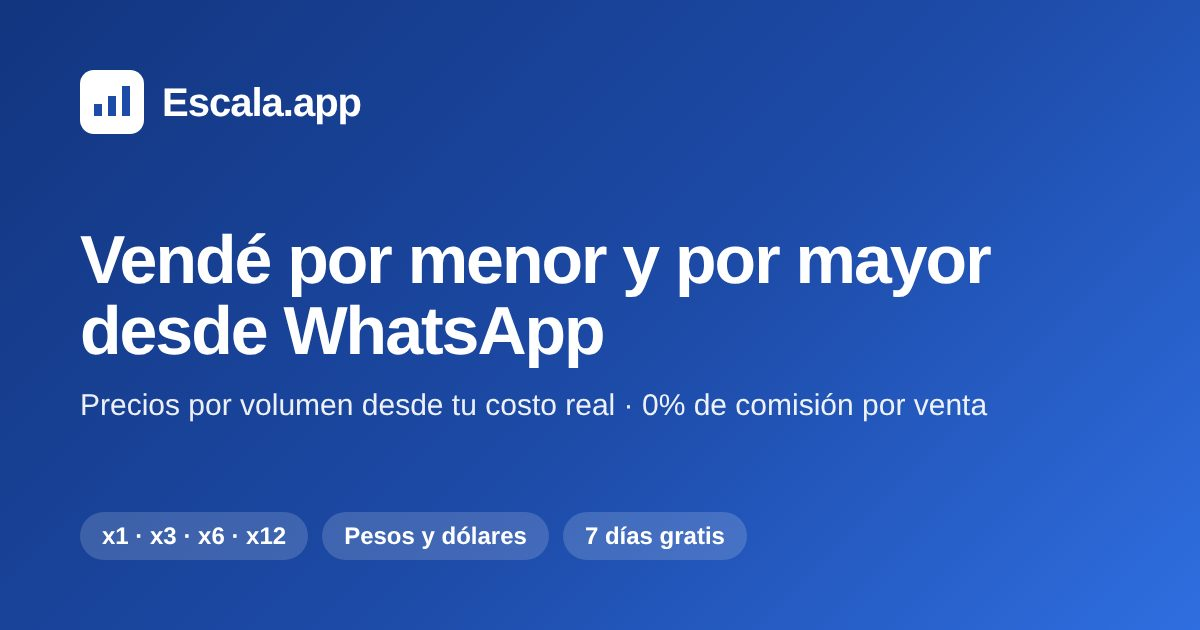
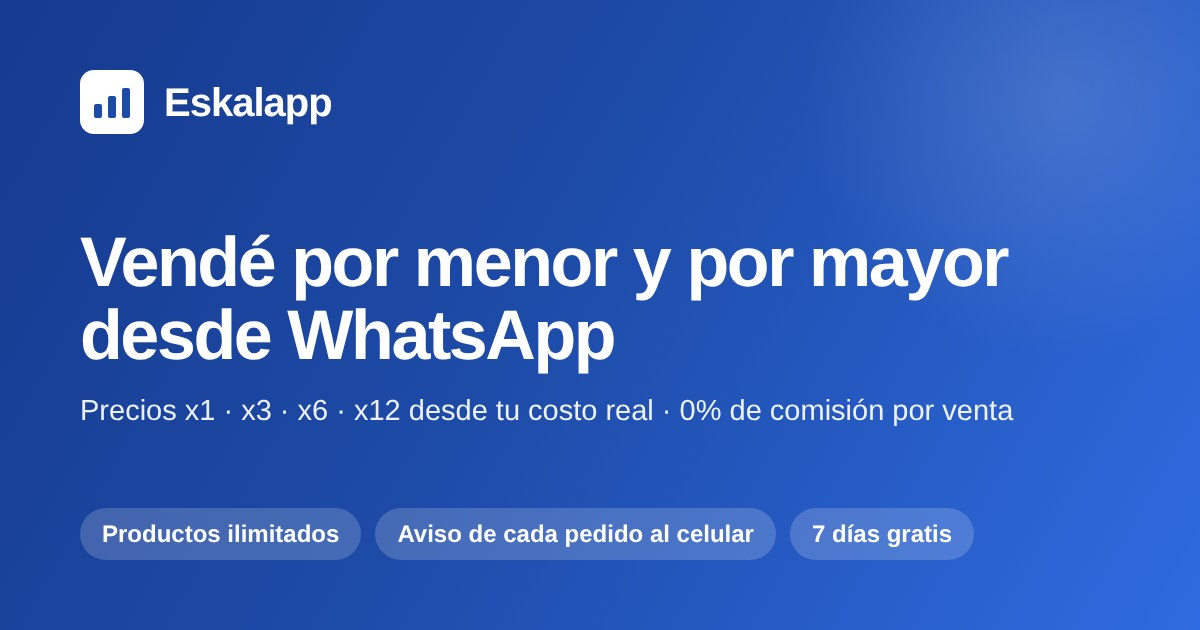
Add files via upload

diff --git a/sw.js b/sw.js
@@ -1,0 +1,32 @@
+// Service worker de la plataforma: solo muestra los avisos de pedidos nuevos en el celular o la compu del comercio.
+// No guarda nada en caché ni intercepta páginas (la tienda y el panel cargan siempre como siempre).
+self.addEventListener('install', () => self.skipWaiting());
+self.addEventListener('activate', e => e.waitUntil(self.clients.claim()));
+
+// Solo se abren direcciones del panel (nunca otro sitio).
+const delPanel = u => typeof u === 'string' && /^\/app(#\/[\w/?=&-]*)?$/.test(u);
+
+self.addEventListener('push', e => {
+  let d = {};
+  try { d = e.data ? e.data.json() : {}; } catch (x) { d = { title: 'Aviso', body: e.data ? e.data.text() : '' }; }
+  const titulo = String(d.title || '🛒 Pedido nuevo').slice(0, 120);
+  e.waitUntil(self.registration.showNotification(titulo, {
+    body: String(d.body || 'Entrá a tu panel para verlo.').slice(0, 240),
+    icon: '/icon-192.png', badge: '/icon-192.png',
+    tag: String(d.tag || 'pedido'), renotify: true,
+    data: { url: delPanel(d.url) ? d.url : '/app#/panel?tab=pedidos' },
+  }));
+});
+
+self.addEventListener('notificationclick', e => {
+  e.notification.close();
+  const d = (e.notification.data && e.notification.data.url) || '/app#/panel';
+  const url = new URL(delPanel(d) ? d : '/app#/panel', self.location.origin);
+  e.waitUntil((async () => {
+    const ws = await self.clients.matchAll({ type: 'window', includeUncontrolled: true });
+    const panel = ws.find(w => new URL(w.url).pathname.startsWith('/app'));
+    // si el panel ya está abierto: se trae al frente y se le pide que abra el pedido (sin recargar la página)
+    if (panel) { try { await panel.focus(); } catch (x) { } panel.postMessage({ irA: url.pathname + url.hash }); return; }
+    await self.clients.openWindow(url.href);
+  })());
+});

diff --git a/app.html b/app.html
@@ -3,12 +3,12 @@
 <head>
 <meta charset="utf-8">
 <meta name="viewport" content="width=device-width,initial-scale=1,viewport-fit=cover">
-<title>Escala.app · Tu tienda online mayorista y minorista con pedidos por WhatsApp</title>
+<title>Eskalapp · Tu tienda online mayorista y minorista con pedidos por WhatsApp</title>
 <meta name="description" content="Subí la foto de la lista de tu proveedor y en un minuto tenés tu tienda con precios por cantidad y pedidos por WhatsApp. 0% de comisión por venta. 7 días gratis.">
 <meta property="og:type" content="website">
-<meta property="og:site_name" content="Escala.app">
-<meta property="og:title" content="Subí la lista de tu proveedor y tené tu tienda con tus precios en un minuto">
-<meta property="og:description" content="Para revendedores y mayoristas: precios por cantidad con tu ganancia, pedidos por WhatsApp y 0% de comisión por venta. Probalo sin registrarte.">
+<meta property="og:site_name" content="Eskalapp">
+<meta property="og:title" content="Eskalapp: tu tienda mayorista y minorista con precios x1 · x3 · x6 · x12">
+<meta property="og:description" content="Para revendedores y mayoristas: subí la lista de tu proveedor, poné tu ganancia y recibí pedidos por WhatsApp. Productos ilimitados y 0% de comisión por venta.">
 <meta property="og:image" content="/og.jpg">
 <meta name="twitter:card" content="summary_large_image">
 <link rel="icon" href="/favicon.svg" type="image/svg+xml">

diff --git a/index.html b/index.html
@@ -3,12 +3,12 @@
 <head>
 <meta charset="utf-8">
 <meta name="viewport" content="width=device-width,initial-scale=1,viewport-fit=cover">
-<title>Escala.app · Tu tienda online mayorista y minorista con pedidos por WhatsApp</title>
+<title>Eskalapp · Tu tienda online mayorista y minorista con pedidos por WhatsApp</title>
 <meta name="description" content="Subí la foto de la lista de tu proveedor y en un minuto tenés tu tienda con precios por cantidad y pedidos por WhatsApp. 0% de comisión por venta. 7 días gratis.">
 <meta property="og:type" content="website">
-<meta property="og:site_name" content="Escala.app">
-<meta property="og:title" content="Subí la lista de tu proveedor y tené tu tienda con tus precios en un minuto">
-<meta property="og:description" content="Para revendedores y mayoristas: precios por cantidad con tu ganancia, pedidos por WhatsApp y 0% de comisión por venta. Probalo sin registrarte.">
+<meta property="og:site_name" content="Eskalapp">
+<meta property="og:title" content="Eskalapp: tu tienda mayorista y minorista con precios x1 · x3 · x6 · x12">
+<meta property="og:description" content="Para revendedores y mayoristas: subí la lista de tu proveedor, poné tu ganancia y recibí pedidos por WhatsApp. Productos ilimitados y 0% de comisión por venta.">
 <meta property="og:image" content="/og.jpg">
 <meta name="twitter:card" content="summary_large_image">
 <link rel="icon" href="/favicon.svg" type="image/svg+xml">

diff --git a/bot.html b/bot.html
@@ -3,7 +3,7 @@
 <head>
 <meta charset="utf-8">
 <meta name="viewport" content="width=device-width, initial-scale=1">
-<title>EscalaBot · lector de catálogos</title>
+<title>EscalaBot · lector de catálogos de Eskalapp</title>
 <meta name="robots" content="noindex">
 <style>
   :root { --bg: #f7f8fb; --fg: #1b2333; --t2: #4a5568; --ac: #1d4ba8; --bd: #dde2ec; color-scheme: light; }
@@ -20,7 +20,7 @@
 </head>
 <body>
 <main>
-  <h1>EscalaBot: el lector de catálogos de Escala</h1>
+  <h1>EscalaBot: el lector de catálogos de Eskalapp</h1>
   <p>Si viste <code>EscalaBot/1.0</code> en los registros de tu sitio: es la herramienta con la que un comercio que revende tus productos trae a su tienda online los datos de tu catálogo público (nombre, precio, foto y descripción).</p>
   <h2>Cómo trabaja</h2>
   <ul>
